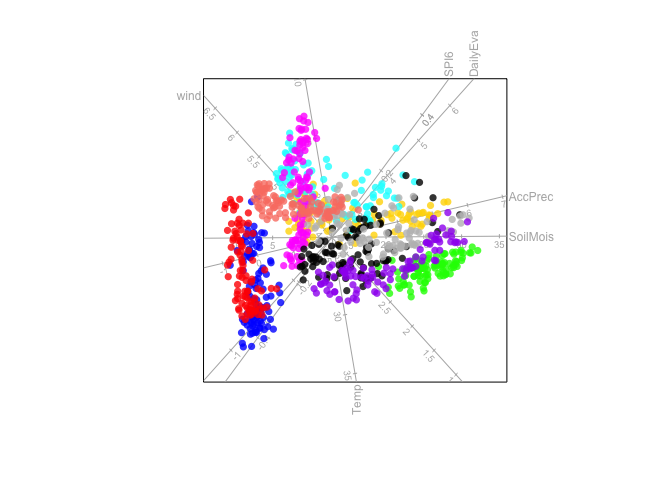
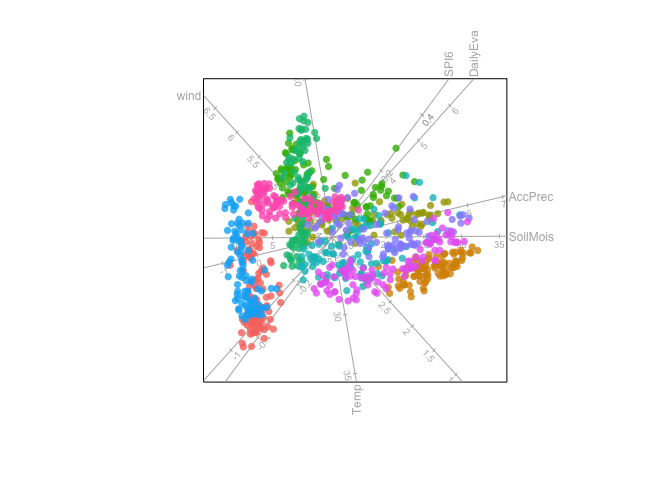
colours in biplotEZ plot

Changed region(s): [[0.3125, 0.2188, 0.7188, 0.75], [0.5625, 0.2812, 0.5938, 0.3125]]

diff --git a/README.md b/README.md
@@ -66,11 +66,12 @@ according to their associated region:
 library(biplotEZ)
 bp <- biplot(Africa_climate,scaled=TRUE) |> 
   PCA(group.aes = Africa_climate$Region) |> 
-  samples(opacity = 0.8) |> 
+  samples(opacity = 0.8,col = scales::hue_pal()(10)) |>
+  legend.type(samples=TRUE,new = TRUE) |>
   plot()
 ```
 
-<img src="man/figures/README-unnamed-chunk-3-1.png" width="100%" />
+<img src="man/figures/README-unnamed-chunk-3-1.png" width="100%" /><img src="man/figures/README-unnamed-chunk-3-2.png" width="100%" />
 
 # 1. Fixed Variable Frame with `moveplot()`
 
